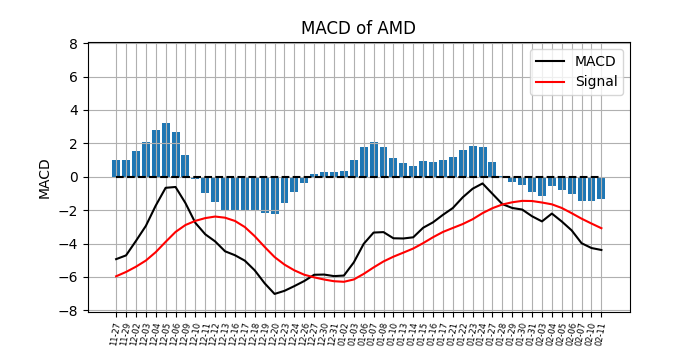
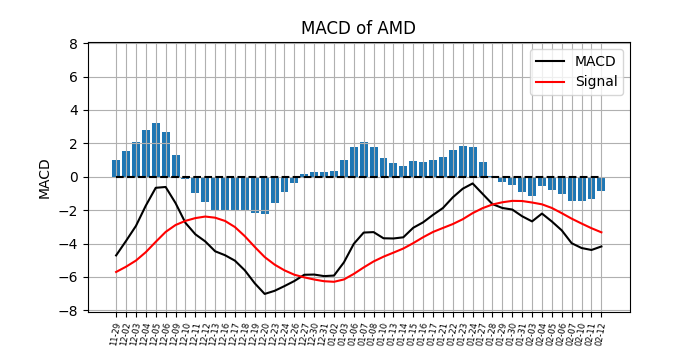
commit for 2025-02-12

diff --git a/_posts/2025-02-12-VRTX.md b/_posts/2025-02-12-VRTX.md
@@ -1,9 +1,9 @@
 ---
 layout: post
-title: "LYFT"
-company: Lyft Inc.
-date: 2025-02-11 -0500
-categories: consumer
+title: "VRTX"
+company: Vertex Pharma Inc.
+date: 2025-02-12 -0500
+categories: biotech
 ---
 
 ### Most up to date figures for {{page.company}} ({{ page.title }}).
@@ -14,7 +14,7 @@ categories: consumer
 
 ### Transactions
 
-**Buy**: $20 on 1/22/25
+Buy/short:
 
 ### Thoughts
-(1/21/25) - **Buy**. Opportunity here as the 5 day MA is about to cross 20 day. In addition, MACD has upward momentum and the RSI is near median.
+(1/21/25) - **Miss**. Missed buy opportunity on 1/16 after MA double cross. Look for short opportunity soon.

diff --git a/_posts/2025-02-12-LYFT.md b/_posts/2025-02-12-LYFT.md
@@ -1,9 +1,9 @@
 ---
 layout: post
-title: "W"
-company: Wayfair Inc.
-date: 2025-02-11 -0500
-categories: internet retail
+title: "LYFT"
+company: Lyft Inc.
+date: 2025-02-12 -0500
+categories: consumer
 ---
 
 ### Most up to date figures for {{page.company}} ({{ page.title }}).
@@ -14,4 +14,7 @@ categories: internet retail
 
 ### Transactions
 
+**Buy**: $20 on 1/22/25
+
 ### Thoughts
+(1/21/25) - **Buy**. Opportunity here as the 5 day MA is about to cross 20 day. In addition, MACD has upward momentum and the RSI is near median.

diff --git a/_posts/2025-02-12-W.md b/_posts/2025-02-12-W.md
@@ -1,9 +1,9 @@
 ---
 layout: post
-title: "VRTX"
-company: Vertex Pharma Inc.
-date: 2025-02-11 -0500
-categories: biotech
+title: "W"
+company: Wayfair Inc.
+date: 2025-02-12 -0500
+categories: internet retail
 ---
 
 ### Most up to date figures for {{page.company}} ({{ page.title }}).
@@ -14,7 +14,4 @@ categories: biotech
 
 ### Transactions
 
-Buy/short:
-
 ### Thoughts
-(1/21/25) - **Miss**. Missed buy opportunity on 1/16 after MA double cross. Look for short opportunity soon.

diff --git a/_posts/2025-02-12-AMD.md b/_posts/2025-02-12-AMD.md
@@ -2,7 +2,7 @@
 layout: post
 title: "AMD"
 company: Advanced Micro Devices Inc.
-date: 2025-02-11 -0500
+date: 2025-02-12 -0500
 categories: tech
 ---
 
